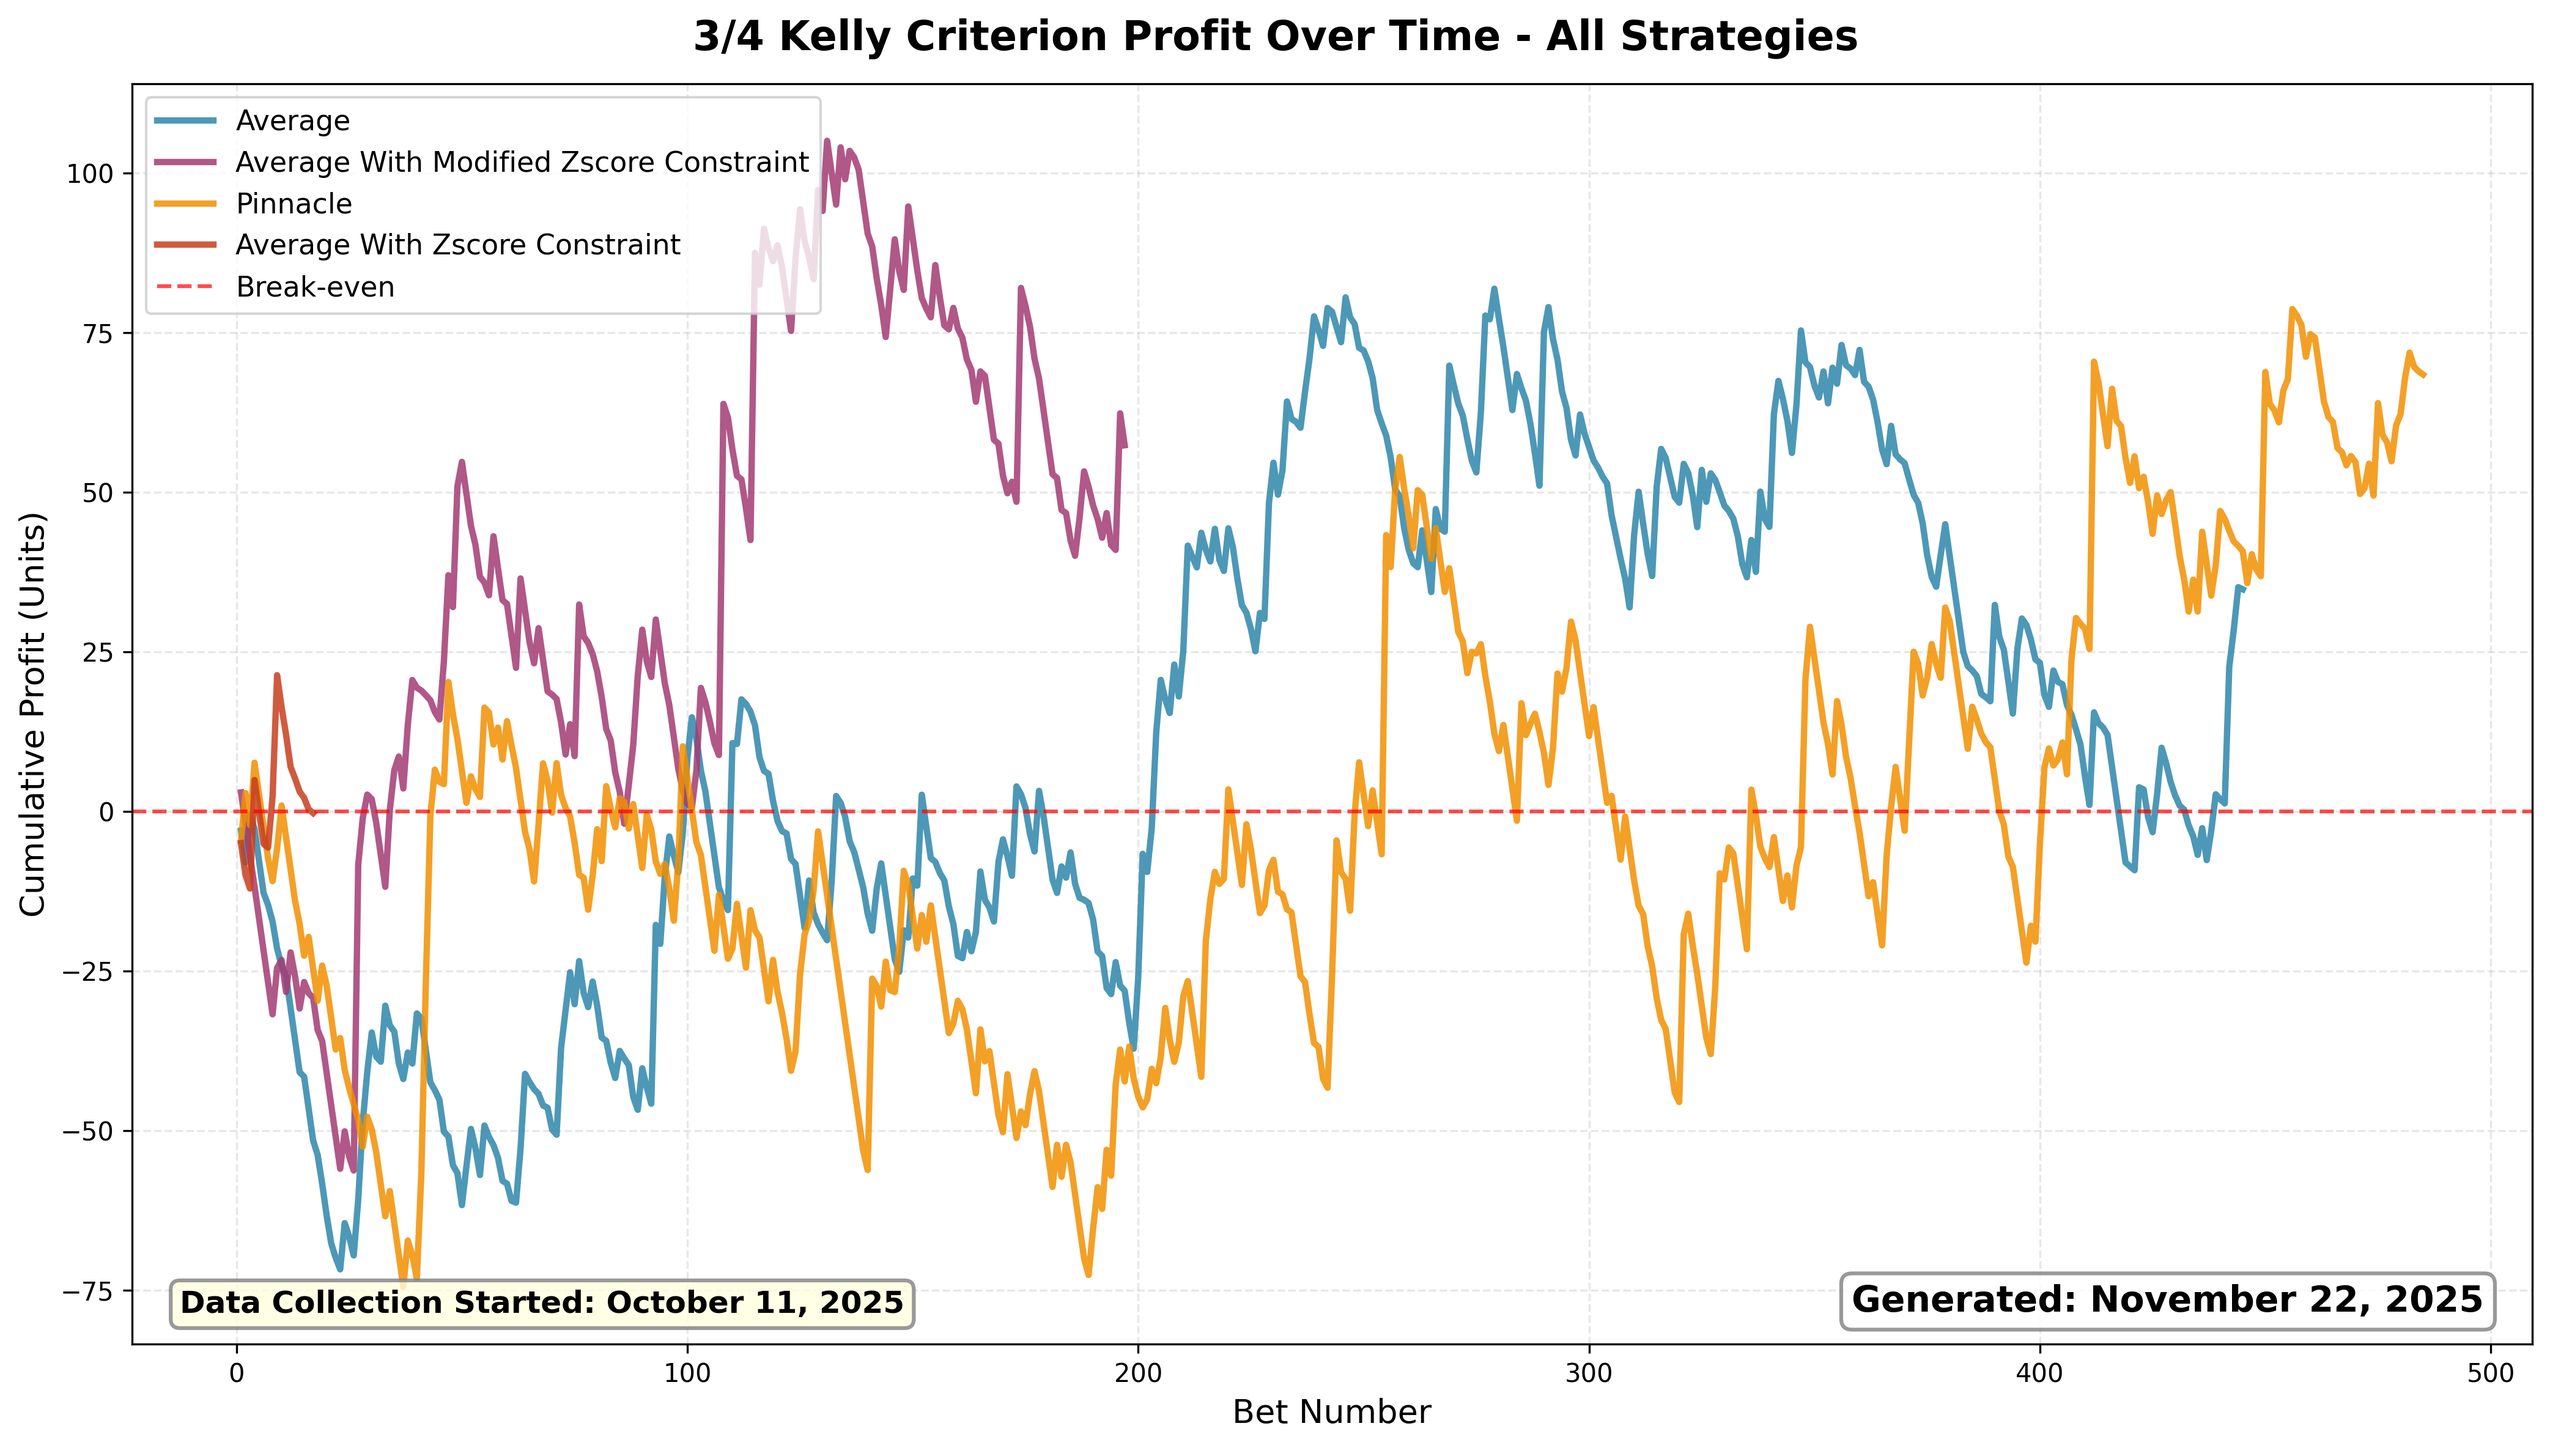
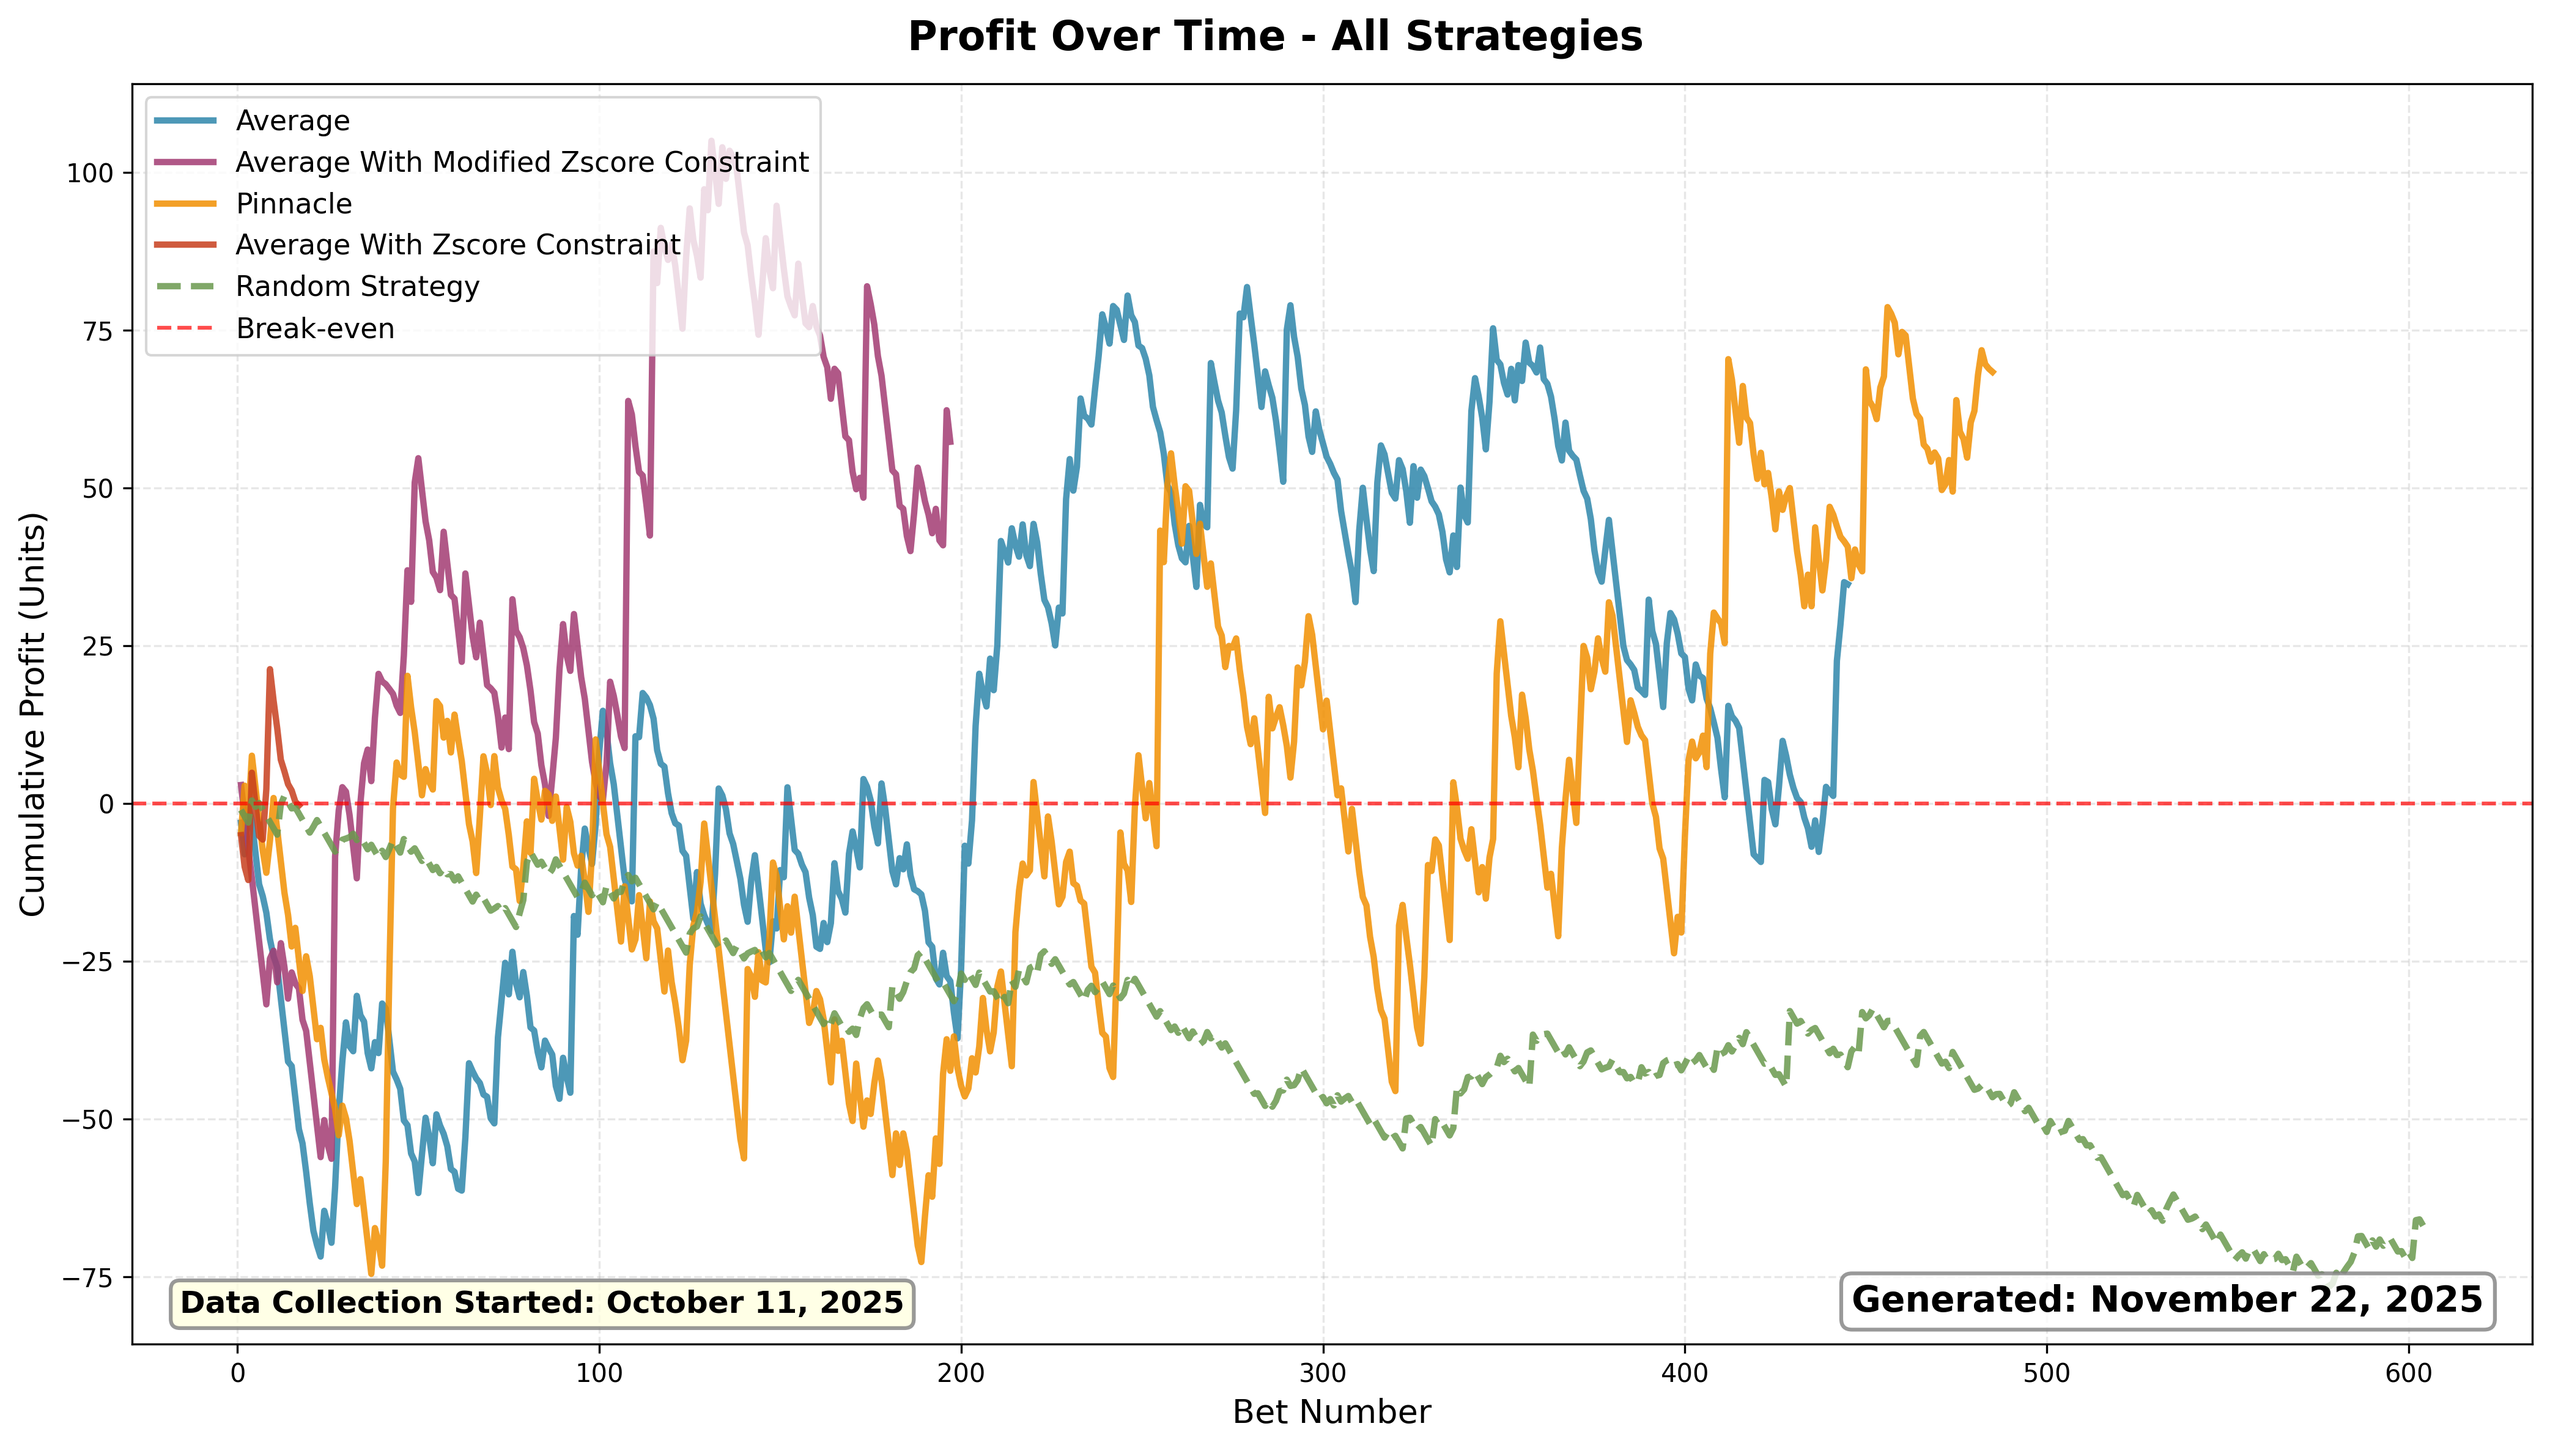
add random strategy to all strats chart

diff --git a/codebase/analysis/profit_over_time.py b/codebase/analysis/profit_over_time.py
@@ -307,7 +307,7 @@ def plot_profit_over_time(strategy, save_fig=False):
 
 def plot_comparison_all_strategies(save_fig=False):
     """
-    Create a comparison plot showing Kelly betting for all strategies.
+    Create a comparison plot showing all strategies (Kelly for most, flat for Random).
     
     Args:
         save_fig: Whether to save the figure to disk
@@ -328,15 +328,17 @@ def plot_comparison_all_strategies(save_fig=False):
     
     first_bet_date = earliest_date.strftime('%B %d, %Y')
     
-    fig.suptitle(f'3/4 Kelly Criterion Profit Over Time - All Strategies', 
+    fig.suptitle(f'Profit Over Time - All Strategies', 
                  fontsize=16, fontweight='bold')
     
     colors = ['#2E86AB', '#A23B72', '#F18F01', '#C73E1D', '#6A994E']
     
-    # Plot Kelly Betting for all strategies
+    # Plot all strategies
     for i, strategy in enumerate(STRATEGIES):
+        df = pd.read_csv(strategy.path)
+        
         if strategy.ev_column:
-            df = pd.read_csv(strategy.path)
+            # Plot Kelly betting for strategies with EV column
             kelly_profit = calculate_cumulative_profit_kelly(
                 df, 
                 strategy.odds_column, 
@@ -348,6 +350,13 @@ def plot_comparison_all_strategies(save_fig=False):
             if not kelly_profit.empty:
                 ax.plot(kelly_profit['Bet_Number'], kelly_profit['Cumulative_Profit'], 
                         linewidth=2.5, color=colors[i % len(colors)], label=strategy.name, alpha=0.85)
+        else:
+            # Plot flat betting for Random strategy
+            flat_profit = calculate_cumulative_profit_flat(df, strategy.odds_column)
+            
+            if not flat_profit.empty:
+                ax.plot(flat_profit['Bet_Number'], flat_profit['Cumulative_Profit'], 
+                        linewidth=2.5, color=colors[i % len(colors)], label=strategy.name, alpha=0.85, linestyle='--')
     
     ax.axhline(y=0, color='red', linestyle='--', linewidth=1.5, alpha=0.7, label='Break-even')
     ax.set_xlabel('Bet Number', fontsize=13)
@@ -410,8 +419,8 @@ def main():
         print(f"\nPlotting: {strategy.name}")
         plot_profit_over_time(strategy, save_fig=True)
     
-    # Option 2: Plot all strategies together for comparison (Kelly only)
-    print("\nPlotting Kelly betting comparison of all strategies...")
+    # Option 2: Plot all strategies together for comparison (Kelly + flat for Random)
+    print("\nPlotting comparison of all strategies...")
     plot_comparison_all_strategies(save_fig=True)
     
     print("\n" + "=" * 70)
